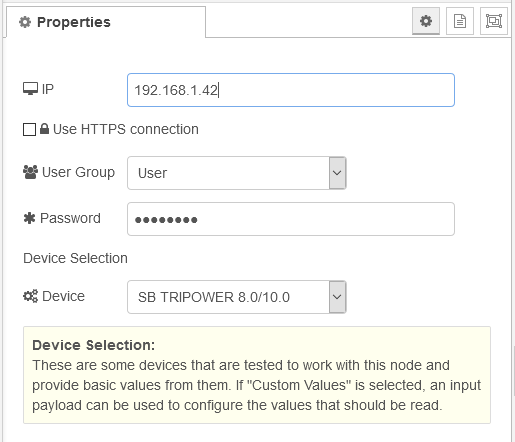
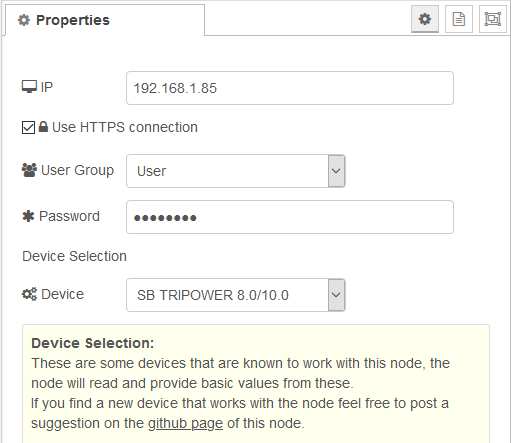
changed how custom values can be set for the node, readme updated

diff --git a/sma-webconnect.html b/sma-webconnect.html
@@ -48,22 +48,23 @@
   <select id="node-input-device_selection">
     <option selected value="sb_tripower">SB TRIPOWER 8.0/10.0</option>
     <option value="sb_storage">SB STORAGE 2.5</option>
-    <option value="experimental">Experimental</option>
   </select>
 </div>
 <div class="form-tips">
   <b> Device Selection: </b>
   <br>
-  These are some devices that are known to work with this node. 
-  The node will read and provide basic values from these.
+  These are some devices that are known to work with this node, the node will read and provide basic values from these.
+  <br>
+  If you find a new device that works with the node feel free to post a suggestion on the nodes <a href="https://github.com/rlindner/node-red-contrib-sma-webconnect">github page</a>.
   <br>
   <br>
-  <b> Experimental </b>
+  <b> FAQ </b>
   <br>
-  This is intended for experienced users and enables to read custom values from a device with a predefinable input payload. 
-  Instructions on how to configure the input payload are available in the README of the git repository. 
+  <b>Q:</b> Will this node work with my device?
   <br>
-  <b>Due to the wide variety of devices available there will be no individual support if experimental is used!</b>
+  <b>A:</b> As long as your device provides a web interface this node should be able to read values from it.
+  You can easily test this if you can connect to the IP of your device on port 80 (HTTP) or 433 (HTTPS).
+  <br>
 </div>
 </script>
 

diff --git a/sma-webconnect.js b/sma-webconnect.js
@@ -143,8 +143,8 @@ module.exports = function(RED) {
     const url = buildUrl(node.use_tls, node.ip_address, "/dyn/getValues.json?sid=" + node.sid);
       
     // set default message according to device type
-    if (node.device_selection == "experimental") {
-      message = node.custom_message;
+    if (node.use_custom_config) {
+      message = node.custom_config;
     }
     else {
       message = eval(node.device_selection);
@@ -313,13 +313,15 @@ module.exports = function(RED) {
     this.use_tls = config.use_tls;
     this.right = config.right;			
     this.device_selection = config.device_selection;
-    this.custom_message = {};
+    this.custom_config = {};
+    this.use_custom_config = false;
     this.sid = null;
     
     var node = this;
     node.on("input", function(msg) {
-      if (node.device_selection == "experimental") {
-        node.custom_message = msg.payload;
+      if (msg.payload.hasOwnProperty('sma_config')) {
+        node.use_custom_config = false;
+        node.custom_config = msg.payload.sma_config;
       }
 
       query(node, 3, (result) => {

diff --git a/README.md b/README.md
@@ -42,14 +42,19 @@ This node tries to collect the metrics very agressively, i. e.:
 
 ## Configure Custom Messages
 
-The node already provides configurations for sunny boy tripower 8.0/10.0 and storage 2.5 units, but can optionally be configured with an input payload to read custom values from the devices.
+The node already provides basic configurations for Sunny Boy Tripower 8.0/10.0 and Storage 2.5 units. But it is possible to configure the node with an input message to read additional values from your devices.
+
+**The following steps show you how to read custom values from your device**
 
 ![Payload config](input-payload.png)
 
+* `sma_config`: this will tell the node to use the custom configuration, the device selection in the node will be ignored
 * `id`: tells the node which message contains the values
-* `values`: lists all messages that should be read
-  * `name`: custom name of read value
+* `values`: lists all values that should be read
+  * `value_id`: id of values that should be read, this is mandatory!
+  * `name`: custom name of read value, this is mandatory!
   * `divider`: sets the divider of the read value (optional)
+  * `unit`: unit of value (optional)
 
 `Message id` and `value ids` can easily be found by connecting to the webinterface and using the browsers developer tools to inspect the values displayed on the `/spotvalues` page.
 
@@ -59,39 +64,41 @@ The node already provides configurations for sunny boy tripower 8.0/10.0 and sto
 
 ```json
 {
-    "id": "1",
-    "values": {
-        "6100_0046E500": {
-            "name": "phase1_voltage",
-            "divider": 100
-        },
-        "6100_0046E600": {
-            "name": "phase2_voltage",
-            "divider": 100
-        },
-        "6100_0046E700": {
-            "name": "phase3_voltage",
-            "divider": 100
-        },
-        "6100_40463600": {
-            "name": "grid_feedin",
-            "divider": 1
-        },
-        "6100_40463700": {
-            "name": "grid_consumption",
-            "divider": 1
-        },
-        "6100_40263F00": {
-            "name": "power",
-            "divider": 1
+    "sma_config": {
+        "id": "1",
+        "values": {
+            "6100_0046E500": {
+                "name": "phase1_voltage",
+                "divider": 100
+            },
+            "6100_0046E600": {
+                "name": "phase2_voltage",
+                "divider": 100
+            },
+            "6100_0046E700": {
+                "name": "phase3_voltage",
+                "divider": 100
+            },
+            "6100_40463600": {
+                "name": "grid_feedin",
+                "divider": 1
+            },
+            "6100_40463700": {
+                "name": "grid_consumption",
+                "divider": 1
+            },
+            "6100_40263F00": {
+                "name": "power",
+                "divider": 1
+            }
         }
     }
 }
 ```
 
-## How to find `message` an `value` id
+## How to find `message` and `value` id
 
-This section shows you how to get the `message` and `value ids` the node needs in the input payload to read values from the devices.
+This section shows you how to get the `message id` and `value ids` the node needs in the input payload to read values from the devices.
 
 1. connect to the webinterface of you device, i.e. `http(s)://192.168.1.42/#/login`
 2. got to the overview section of your device, i.e. `http(s)://192.168.1.42#/spotvalues`
